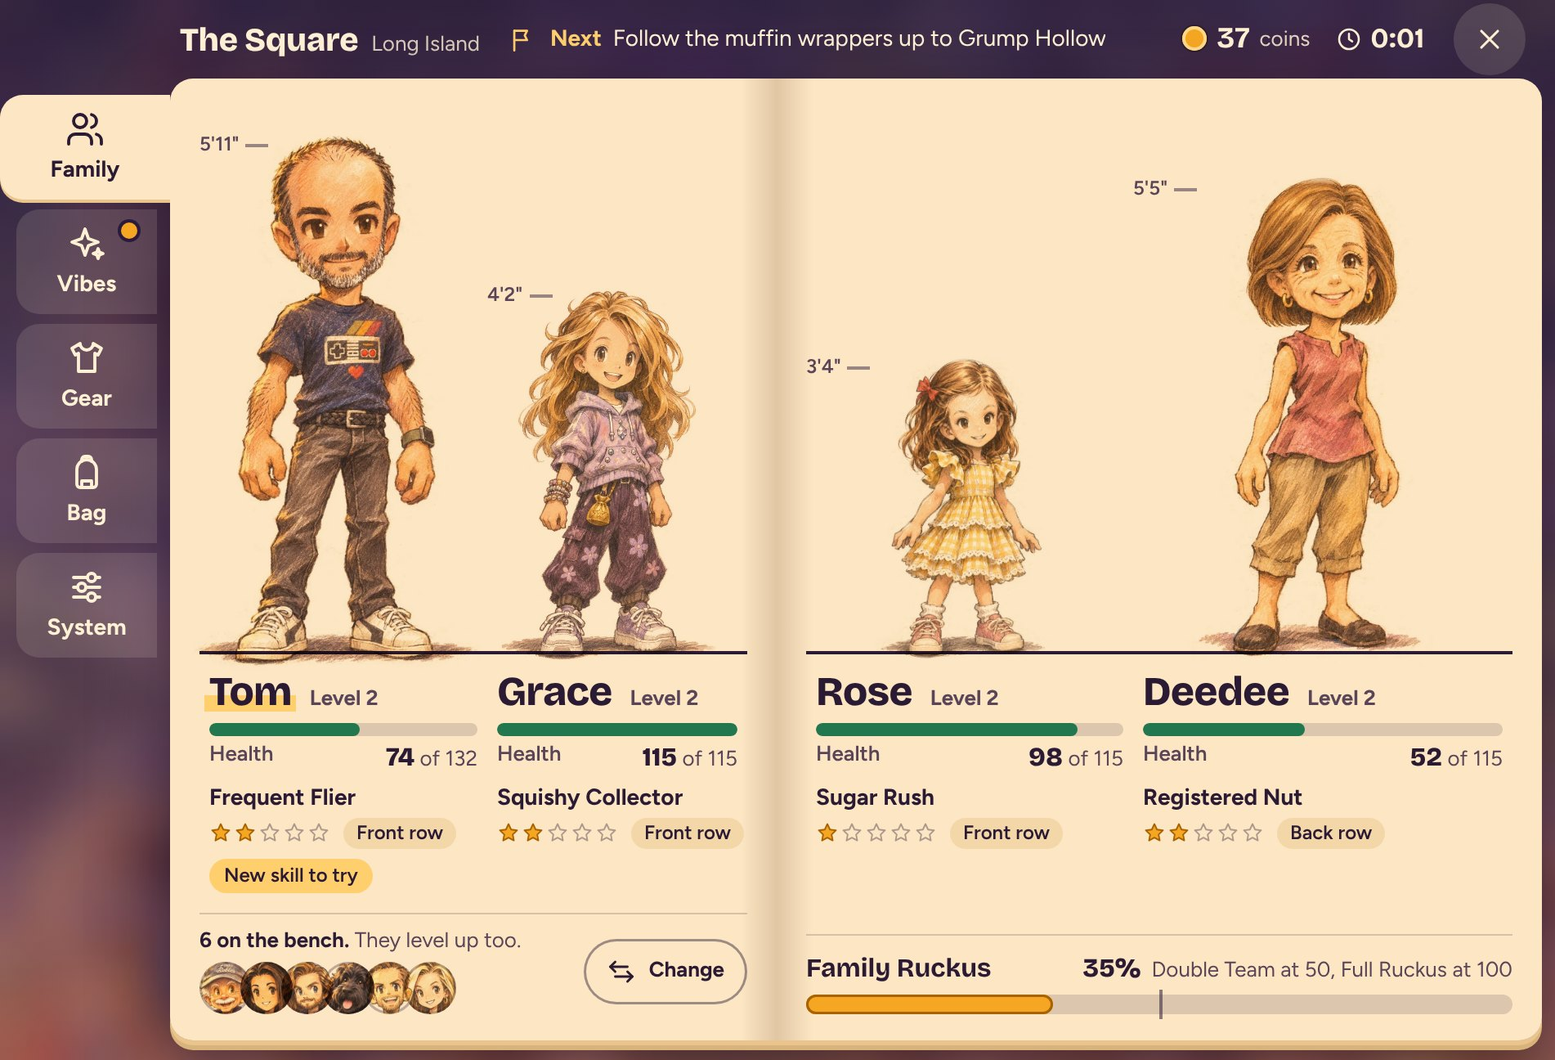
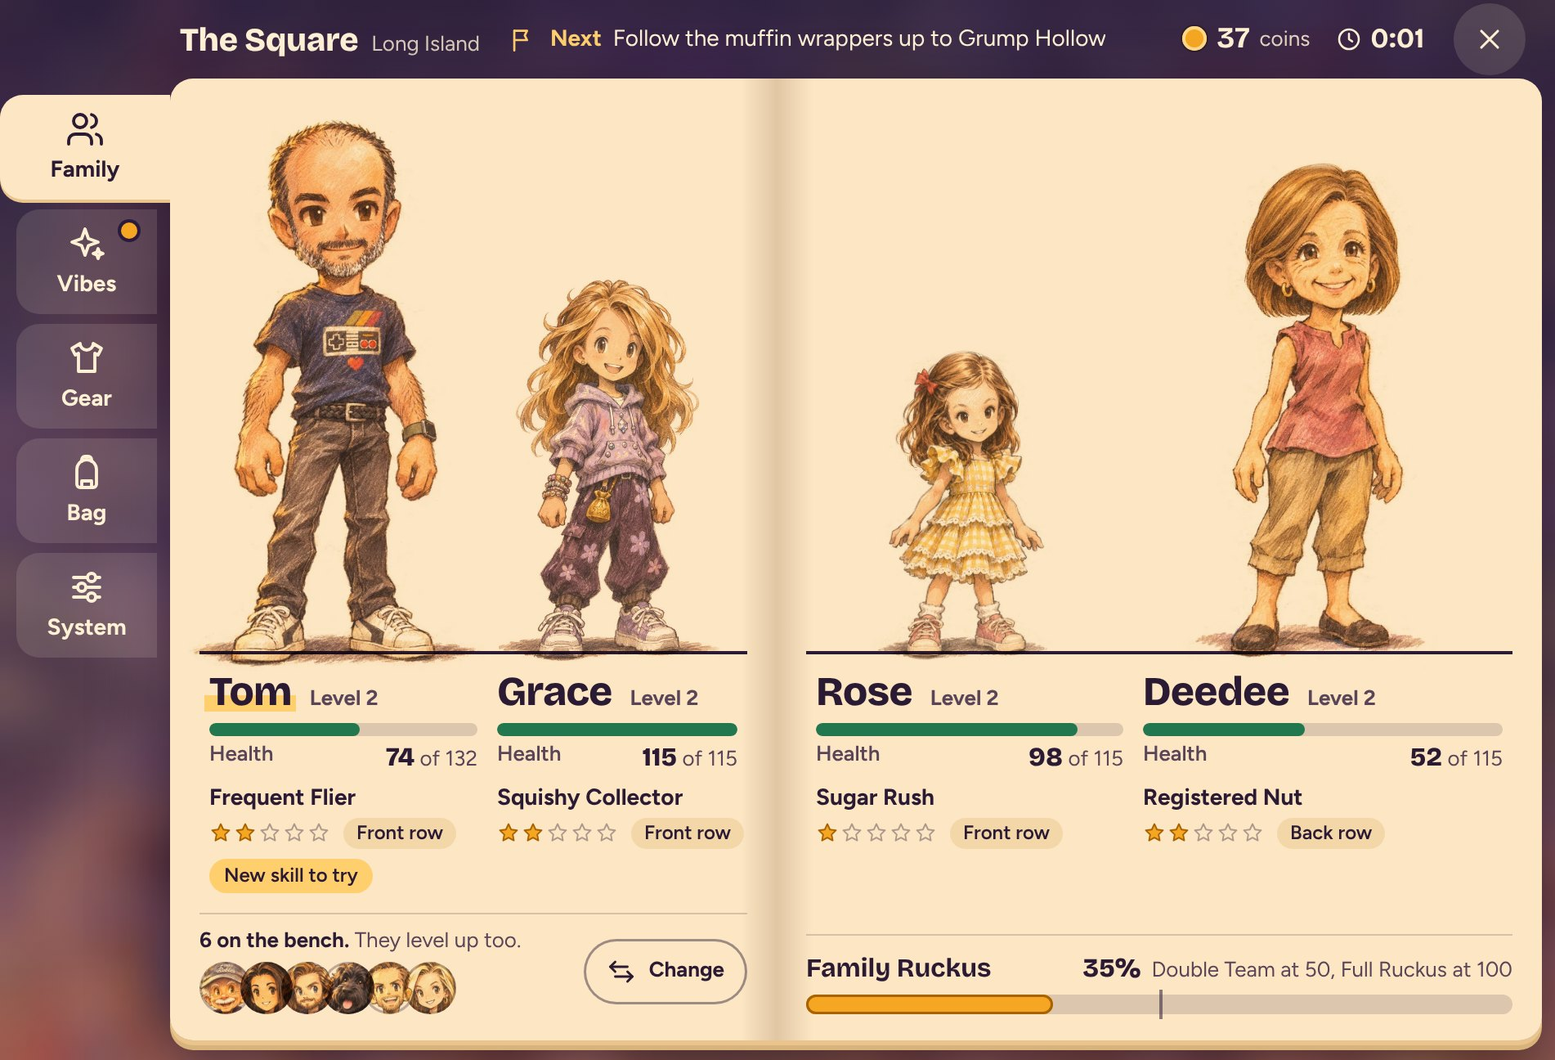
board-menuux4: the new main menu is approved; its four build cards are on the board
Card t-menuux-decide. Height labels removed from the line-up drawings. Cards c-menu1 to c-menu4,
t-menu1look, t-menu4play, c-b3gear. Nothing in the game changed.

Claude-Session: https://claude.ai/code/session_01RXeukG5qjtauKh9omacU4f

diff --git a/data/build-history.js b/data/build-history.js
@@ -1,5 +1,6 @@
 // Generated by tools/build_history.py. Do not edit by hand. Newest first.
 const BUILD_HISTORY=[
+{"tag":"board-menuux4","at":"2026-11-21T18:24:11-08:00","what":"The new main menu is approved; its four build cards are on the board","card":"c-menuux-cards","theme":"Game Shell","kind":"house"},
 {"tag":"takes-2026-11-22","at":"2026-11-22T02:21:49+00:00","what":"1 of Tom's new voice takes is in the game (Grace's I've been nine for SIX hours)","card":"c-takes-e45d5a","theme":"Voice Clips"},
 {"tag":"board-menuux3","at":"2026-11-21T18:19:47-08:00","what":"The menu proposal now covers the full v11 battle design, not only what is built","card":"b-board-menuux3","theme":"Battle System","kind":"house"},
 {"tag":"smokefix1","at":"2026-11-22T02:18:36+00:00","what":"The smoke test passes again; two tests listed for the night run, three board checks no longer read today's board","card":"c-smokefix1","theme":"Project Ops"},
@@ -491,6 +492,5 @@ const BUILD_HISTORY=[
 {"tag":"poseedit3","at":"2026-11-14T21:54:29-08:00","what":"Pose Editor: zoom slider, size sliders, pinching no longer scrambles the lines (the game itself is unchanged)","card":"b-poseedit3","theme":"Story and Dialogue"},
 {"tag":"poseedit2","at":"2026-11-14T21:36:09-08:00","what":"Pose Editor: feelings and talking poses added, and the page reworked into one simple flow (the game itself is unchanged)","card":"b-poseedit2","theme":"Characters"},
 {"tag":"poseedit1","at":"2026-11-14T20:53:19-08:00","what":"Pose Editor, phase 1: set the head, chin and feet lines on every walking pose and size it (the game itself is unchanged)","card":"b-poseedit1","theme":"Story and Dialogue"},
-{"tag":"scripted1","at":"2026-11-14T20:00:04-08:00","what":"Script Editor: edit every scene's words, play the edited scene, send the edits to Claude","card":"b-scripted1","theme":"Story and Dialogue"},
-{"tag":"ch8assets1","at":"2026-11-14T18:23:04-08:00","what":"Chapter 8 assets first: 26 Art Library entries and 178 voice lines queued (the game itself is unchanged)","card":"b-ch8assets1","theme":"Voice Clips"}
+{"tag":"scripted1","at":"2026-11-14T20:00:04-08:00","what":"Script Editor: edit every scene's words, play the edited scene, send the edits to Claude","card":"b-scripted1","theme":"Story and Dialogue"}
 ];

diff --git a/index.html b/index.html
@@ -2164,13 +2164,13 @@ html.landscape:not(.tablet):not(.duo) #battle.v2 .b2-x{font-size:17px}html.lands
 <script src="engine/emotions.js?v=qa-bug02"></script>
 <script src="engine/script-edits.js?v=scripted2"></script><!-- Script Editor overlay: Tom's line edits applied before a scene plays (script.html) --><!-- mood faces and poses in story dialogue (batch 0: chapter 1) -->
 <script src="engine/tapwalk.js?v=bossbig1"></script><!-- tap to walk -->
-<script src="data/build-history.js?v=takes-2026-11-22"></script><!-- build names and times (tools/build_history.py) -->
+<script src="data/build-history.js?v=board-menuux4"></script><!-- build names and times (tools/build_history.py) -->
 <script src="engine/build-history.js?v=buildpill1"></script><!-- build label on the welcome screen and menu, tap for the build history -->
 <script src="engine/amber-spots.js?v=reports-2026-11-22b"></script><!-- orange blocks left behind are solid and answer A (amberspot1) -->
 <script src="engine/block-break.js?v=ch7t1"></script><!-- breaking an orange block: coin, cracks, colour ring, shrink-back, encounters off (ch6build stage 2) -->
 <script src="engine/scene-props.js?v=qa-coh07"></script><!-- drawn stand-in props a scene can put on a map: the chart, Rose rolled up, the gold ball, bulbs (ch7build stage 2) -->
 <script src="engine/video-call.js?v=ch6s4"></script><!-- the video call at the end of chapter 6: Long Island seen from Tom's porch (ch6build stage 4) -->
-<script src="engine/main.js?v=takes-2026-11-22"></script>
+<script src="engine/main.js?v=board-menuux4"></script>
 <script src="engine/music.js"></script>
 <script src="data/songs.js"></script>
 <script src="engine/music-clips.js?v=adminvol1"></script>

diff --git a/engine/main.js b/engine/main.js
@@ -110,7 +110,7 @@ startSplash();
   const d=document.createElement('button');
   d.type='button'; d.id='build-stamp'; d.setAttribute('aria-label','Build history');
   // On an iPhone Duo the stamp also shows the page size and pose the game measured, so Tom can read them back (docs/DUO.md).
-  d.textContent='build takes-2026-11-22';
+  d.textContent='build board-menuux4';
   const build=d.textContent,stamp=()=>{ const w=typeof buildWhenLabel==='function'?buildWhenLabel(build.slice(6)).slice(2):'', duo=typeof duoMode!=='undefined'&&duoMode.device?window.innerWidth+'x'+window.innerHeight+(duoMode.open?' duo open':' duo folded'):'';
     d.textContent=build; for(const t of [w,duo]) if(t){ const s=document.createElement('small'); s.textContent=t; d.appendChild(s); } };
   window.BUILD_TAG=build.slice(6);

diff --git a/claude/menuux-mock/gen/bake_heroes.py b/claude/menuux-mock/gen/bake_heroes.py
@@ -1,0 +1,40 @@
+"""Reference for the menu's hero pictures (the mockups were made with it): a hero painting on its cream paper becomes a picture
+whose paper is pure white, so the menu can draw it on the page with mix-blend-mode: multiply and no cutout is needed.
+Usage (repo root): python3 claude/menuux-mock/gen/bake_heroes.py tom grace ...   writes claude/menuux-mock/img/<id>.webp
+The build (card c-menu1) turns this into tools/sprite-bake/bake_menu_heroes.py writing art/menu/<id>.webp."""
+import sys, os, re, glob
+import numpy as np
+from PIL import Image, ImageFilter
+ROOT = os.path.dirname(os.path.dirname(os.path.dirname(os.path.dirname(os.path.abspath(__file__)))))
+NEAR_LO, NEAR_HI = 0.82, 0.93   # after dividing by the paper: below LO is ink, above HI is paper, smooth in between
+INK = 0.62                      # darker than this is certainly a stroke
+REACH = (9, 26, 6)              # how far from a stroke the page still counts as "near the figure" (grow, blur, gain)
+FEATHER = 30                    # px at the frame's edge faded to white
+OUT_H = 820
+
+def src(pid):
+    vs = sorted(glob.glob(os.path.join(ROOT, 'art/raw/characters', pid + '-hero-v*.png')), key=lambda p: int(re.search(r'-v(\d+)\.png$', p).group(1)))
+    return vs[-1] if vs else os.path.join(ROOT, 'art/raw/characters', pid + '-hero-ref-v1.png')
+
+def bake(pid):
+    im = Image.open(src(pid)).convert('RGB'); a = np.asarray(im).astype(np.float32) / 255
+    # the paper as a smooth field: the brightest thing nearby, blurred
+    small = im.resize((128, 192), Image.BILINEAR).filter(ImageFilter.MaxFilter(31)).filter(ImageFilter.GaussianBlur(10)).resize(im.size, Image.BICUBIC)
+    d = np.clip(a / np.maximum(np.asarray(small).astype(np.float32) / 255, .01), 0, 1)
+    m = d.min(2)
+    t = np.clip((m - NEAR_LO) / (NEAR_HI - NEAR_LO), 0, 1); t = t * t * (3 - 2 * t)
+    ink = Image.fromarray(((m < INK) * 255).astype(np.uint8)).filter(ImageFilter.MaxFilter(REACH[0])).filter(ImageFilter.GaussianBlur(REACH[1]))
+    near = np.clip(np.asarray(ink).astype(np.float32) / 255 * REACH[2], 0, 1)
+    t = np.maximum(t, 1 - near)[..., None]          # far from any stroke the page is paper, whatever its grain says
+    d = d * (1 - t) + t
+    H, W = m.shape
+    ex = np.minimum(np.arange(W), np.arange(W)[::-1]) / FEATHER; ey = np.minimum(np.arange(H), np.arange(H)[::-1]) / FEATHER
+    e = np.clip(np.minimum(ex[None, :], ey[:, None]), 0, 1)[..., None]
+    d = d * e + (1 - e)
+    out = Image.fromarray((np.clip(d, 0, 1) * 255).astype(np.uint8))
+    out = out.resize((round(out.width * OUT_H / out.height), OUT_H), Image.LANCZOS)
+    out.save(os.path.join(ROOT, 'claude/menuux-mock/img', pid + '.webp'), quality=88, method=6)
+    return out.size
+
+if __name__ == '__main__':
+    for p in sys.argv[1:]: print(p, bake(p))

diff --git a/claude/menuux-mock/gen/boards.py b/claude/menuux-mock/gen/boards.py
@@ -52,11 +52,11 @@ def ruckus(pct=35, w='100%'):
 
 # ---------- Family ----------
 def family_duo():
-    ppi = 4.36; area = 334
+    ppi = 4.5; area = 334
     lw, rw = 371, 468
     lslots = [('tom', 176), ('grace', 159)]; rslots = [('rose', 200), ('deedee', 232)]
     def half(slots, sel=None, new=None, ticks='left'):
-        figs = ''.join(figure(p, ppi, w, area) for p, w in slots)
+        figs = ''.join(figure(p, ppi, w, area, tick=False) for p, w in slots)
         plates = ''.join(plate(p, w, sel == p, (new or {}).get(p)) for p, w in slots)
         return (f'<div style="display:flex;align-items:flex-end;border-bottom:2px solid {INK}">{figs}</div>'
                 f'<div style="display:flex;align-items:flex-start">{plates}</div>')
@@ -338,7 +338,7 @@ def family_land():
     ppi = 2.98; area = 222
     lw, rw = 382, 382
     def half(slots, sel=None):
-        figs = ''.join(figure(p, ppi, w, area, tick=True) for p, w in slots)
+        figs = ''.join(figure(p, ppi, w, area, tick=False) for p, w in slots)
         plates = ''.join(plate_s(p, w, sel == p) for p, w in slots)
         return f'<div style="display:flex;align-items:flex-end;border-bottom:2px solid {INK}">{figs}</div><div style="display:flex;align-items:flex-start">{plates}</div>'
     left = half([('tom', 180), ('grace', 174)], 'tom'); right = half([('rose', 174), ('deedee', 180)])

diff --git a/claude/menuux-plan.md b/claude/menuux-plan.md
@@ -1,6 +1,6 @@
 # Main menu redesign: the proposal (menuux-plan, 2026-11-21)
 
-Card c-menuux-plan. Status: PROPOSAL. Nothing in the game changed. The build starts only after Tom approves (card t-menuux-decide, or his word in the chat).
+Card c-menuux-plan. Status: APPROVED by Tom on 11-21 at 18:20 ("looks great now, just remove their heights and we can make the cards for this to be produced"). Build cards: c-menu1 to c-menu4, with Tom's two look cards t-menu1look and t-menu4play. Nothing in the game changed yet.
 
 Tom (11-21 17:28): "The main menu needs a complete overhaul - i originally wanted it like odl school JRPG style but im now finding it dated and hard to read. and im not sure its optimized for the new battle system. can you research best in class menus (eg, Person 3 Reload; just one example) that perfectly suits the needs of the game. it also should be strikingly beautiful and in theme with the design of the game.im open to anything, but id like to see a proposal before moving forward. once approved, id ask you to create the corresponding cards to kick off the work with the appropriate models."
 
@@ -46,8 +46,8 @@ One sentence: pausing turns the world to dusk and opens the sketchbook the famil
 |---|---|---|
 | Behind the menu | The paused game picture, softened and washed plum to rose (the title screen's sky). | The menu always shows where you are; costs nothing to make (one still of the canvas when the menu opens). |
 | The surface | Warm paper, the same colour the family's paintings are on (`#FCE6C3`, measured from the hero paintings: about `#FDE2B8`). Dark plum ink for text (`#2B1A33`). | The paintings stop looking like stickers. Dark text on a light page is the easiest thing to read on a phone. Contrast: ink on paper 13 to 1, the softer grey 7 to 1. |
-| The signature | The Family screen is a line-up of the hero paintings on one floor line at their REAL heights (from `data/heights.json`), with a pencil tick and the height at each head, like marks on a door frame. | Nobody else's game has this. The real heights are already a rule of this game. |
-| No cutouts | The paintings are not cut out. A bake divides each painting by its own paper so the paper becomes pure white, and the menu draws it with the "multiply" blend on the page. Hair wisps and pencil edges survive untouched. | Tom's rule about bad cutouts. Proved on seven paintings in the drawings. |
+| The signature | The Family screen is a line-up of the hero paintings on one floor line at their REAL relative heights (from `data/heights.json`). No height labels: Tom (11-21 18:20) had the pencil marks and numbers removed. | Nobody else's game has this. The real heights are already a rule of this game. |
+| No cutouts | The paintings are not cut out. A bake divides each painting by its own paper so the paper becomes pure white, and the menu draws it with the "multiply" blend on the page (the method, with its numbers, is `claude/menuux-mock/gen/bake_heroes.py`). Hair wisps and pencil edges survive untouched. | Tom's rule about bad cutouts. Proved on seven paintings in the drawings. |
 | The fold | On the Duo unfolded each screen is a two-page spread and the fold is the book's gutter (x 475 of 951): who or what on the left page, the detail on the right. No text crosses the fold. | The Duo is the main screen, and it is a book. |
 | Navigation | Five tabs with a picture AND a word: Family, Vibes, Gear, Bag, System. Index tabs down the left edge when the screen is wide (Duo, desktop, phone sideways), along the bottom edge when it is tall (phone upright, Duo folded). | Nine commands become five. The content gets the full width on a phone. Thumbs reach the tabs. |
 | What went where | Party becomes Family. Status folds into the header of Vibes and Gear (name, level, four numbers). Items becomes Bag. Load, Options and Quit become System (Save is there too). Stamps leaves (section 4). | Fewer places, nothing lost. |
@@ -119,10 +119,10 @@ The new menu is built beside the old one behind a switch (ADMIN > Menu: new or o
 
 | Card | What it builds | Model and effort (claude/handoff-rules.md) | Tom's part after |
 |---|---|---|---|
-| c-menu1 (tag menu1) | The look and the Family screen: fonts in the repo, colours and components as CSS, the paused-scene backdrop, the book and its tabs for wide and tall screens, the top bar, the hero bake (`tools/sprite-bake/bake_menu_heroes.py`, paper to white, for all ten family members, Nara included), the line-up at real heights, the bench with Change (swap a bench member in, with the story's locks said in words), keys, gamepad and touch. A head row of the line-up goes to Tom. | Sonnet 5.5 (row C: a build whose code is not written; the look is fully specified by `claude/menuux-mock/gen/kit.py`). Effort high (a new screen system worked out in one session). | One look on the real Duo and phone, about 3 minutes: does it feel right in the hand. This is the only taste check before the rest is built. |
-| c-menu2 (tag menu2) | Vibes and Gear: the shared header and switcher with the bench button, the three Vibe chips and the locked Freelancer chip, the Vibe pages on the real loadout functions (`b3SetMain`, `b3SetPocket`, `b3vRow`, the Quirk chooser, the late joiner's pool), the overflow line, the skill row, Gear with live changes through the gear mapping table, Best gear. Reads `claude/battleux-plan.md` first if it exists, so the skill row and the flavor icons are the same in the menu and in a fight. | Sonnet 5.5 (row C). Effort high. | None (tests and frames; folded into the final look). |
-| c-menu3 (tag menu3) | Bag and System: the list, the detail, Use it on, the phone sheet; saves, options, build label, quit; Rose Mode; Less motion. | Sonnet 5.5 (row B: the patterns exist after menu1 and menu2). Effort medium. | None. |
-| c-menu4 (tag menu4) | Switch the new menu on for everyone and purge the old one: old render functions and CSS in `engine/menu.js`, the Vibes overlay's own screen in `engine/b3-menu.js` (its save code stays), the admin switch, tests. | Sonnet 5.5 (row B: the purge rule and tests are written). Effort medium. Can run on the night shift. | Play the whole menu once on the phone, about 10 minutes. |
+| c-menu1 (tag menu1) | The look and the Family screen: fonts in the repo, colours and components as CSS, the paused-scene backdrop, the book and its tabs for wide and tall screens, the top bar, the hero bake (`tools/sprite-bake/bake_menu_heroes.py` from `claude/menuux-mock/gen/bake_heroes.py`, for every family member with a hero painting), the line-up at real heights with no labels, the bench with Change, keys, gamepad and touch. A head row of the line-up goes on Tom's card. | Sonnet 5.5 (row C: a build whose code is not written; the look is fully specified by `claude/menuux-mock/gen/kit.py`). Effort high (a new screen system worked out in one session). Tom starts it (Copy prompt). | t-menu1look: one look on the real Duo and phone, about 3 minutes. It does not hold up menu2. |
+| c-menu2 (tag menu2) | Vibes and Gear: the shared header and switcher with the bench button, the three Vibe chips and the locked Freelancer chip, the Vibe pages on the real loadout functions (`b3SetMain`, `b3SetPocket`, `b3vRow`, the Quirk chooser, the late joiner's pool), the overflow line, the skill row, Gear with live changes through the gear mapping table, Best gear. Uses the flavor symbols and the DETAILS setting that battleux1 built. | Sonnet 5.5 (row B: the page system and components exist after menu1, the rules functions exist, the plan and the generator say what goes where). Effort medium. Starts by itself. | None. |
+| c-menu3 (tag menu3) | Bag and System: the list, the detail, Use it on, the phone sheet; saves, options, build label, quit; Rose Mode; Less motion. | Sonnet 5.5 (row B). Effort medium. Starts by itself. | None. |
+| c-menu4 (tag menu4) | Switch the new menu on for everyone and purge the old one: old render functions and CSS in `engine/menu.js`, the Vibes overlay's own screen in `engine/b3-menu.js` (its save code stays), the admin switch, tests. | Sonnet 5.5 (row B: the purge rule and tests are written). Effort medium. Starts by itself. | t-menu4play: play the whole menu once on the phone, about 10 minutes. |
 
 Not in this proposal (each would be its own card, after the menu is approved in the hand): the typefaces and accent carried into the battle panels (table in section 4), the shop (it shares the menu's code and look, so it is the natural next one), the title menu, the dialogue box, the save pop-up on the map. The battle screen has its own proposal (c-battleux-plan); the two should agree on colours, type, the skill row and the flavor icons.
 

diff --git a/claude/INDEX.md b/claude/INDEX.md
@@ -295,6 +295,7 @@ Written by tools/claude_index.py; do not edit by hand. This folder replaces the 
 |---|---|---|
 | menuux-mock/fonts/bricolage.woff2 | wOF2��$c��*��2�R?HVAR� | 2026-11-21 |
 | menuux-mock/fonts/figtree.woff2 | wOF2N���NJ�4�F�8?HVAR�d`?STAT�'*�/j | 2026-11-21 |
+| menuux-mock/gen/bake_heroes.py | """Reference for the menu's hero pictures (the mockups were made with it): a hero painting on its cream paper  |  |
 | menuux-mock/gen/boards.py | from kit import * | 2026-11-21 |
 | menuux-mock/gen/export_canvas.py | Writes the Design canvas files (project/*.dc.html and project/canvas.json) from the same builders as the test  | 2026-11-21 |
 | menuux-mock/gen/kit.py | Golden Hour menu mockups: shared tokens and components. Every element carries inline styles (the Design canvas | 2026-11-21 |
@@ -318,9 +319,9 @@ Written by tools/claude_index.py; do not edit by hand. This folder replaces the 
 | menuux-mock/img/item-shirt.webp | RIFF�WEBPVP8X | 2026-11-21 |
 | menuux-mock/img/item-sunhat.webp | RIFFH&WEBPVP8X | 2026-11-21 |
 | menuux-mock/img/item-sweater.webp | RIFF"1WEBPVP8X | 2026-11-21 |
-| menuux-mock/img/justin-head.webp | RIFFh#WEBPVP8 \#�c�*��>A�C���=FD(�gr#����yW�O}}��gA=�����x?�z����k�#���Ǩ�:?D?�� :��/��Z�����l�_ |  |
-| menuux-mock/img/nara-head.webp | RIFF�#WEBPVP8 �#�e�*��>A�C���;��(�g7"������9o����K�^���~�������\:dy��������������@9�V����-�L |  |
-| menuux-mock/img/olivia-head.webp | RIFF")WEBPVP8 )Pi�*��>=�C�!!�60 ĳd����ȹ_���d��^��m�o@����z�_�E�?�ǜ���T_�=@?���>�]��n�������� |  |
+| menuux-mock/img/justin-head.webp | RIFFh#WEBPVP8 \#�c�*��>A�C���=FD(�gr#����yW�O}}��gA=�����x?�z����k�#���Ǩ�:?D?�� :��/��Z�����l�_ | 2026-11-21 |
+| menuux-mock/img/nara-head.webp | RIFF�#WEBPVP8 �#�e�*��>A�C���;��(�g7"������9o����K�^���~�������\:dy��������������@9�V����-�L | 2026-11-21 |
+| menuux-mock/img/olivia-head.webp | RIFF")WEBPVP8 )Pi�*��>=�C�!!�60 ĳd����ȹ_���d��^��m�o@����z�_�E�?�ǜ���T_�=@?���>�]��n�������� | 2026-11-21 |
 | menuux-mock/img/rose-head.webp | RIFF�'WEBPVP8 �'�j�*��>A�C����6�(�P����+鿧�r�n����\y>{w/C�=Ay�������{�s�/S��������_<P���W;�� | 2026-11-21 |
 | menuux-mock/img/rose.webp | RIFFZUWEBPVP8 NU�0�*#4>=�C�!�<İ Ħ��+HG\ƴv_a�*���� | 2026-11-21 |
 | menuux-mock/img/tnb-head.webp | RIFF`)WEBPVP8 T)0n�*��>=�C�!�/� Ĵd��*?/�1�=<���n����'΢�������?���?׺y���q�����/D.�O��}-:�4�� | 2026-11-21 |
@@ -344,7 +345,7 @@ Written by tools/claude_index.py; do not edit by hand. This folder replaces the 
 | menuux-mock/shots/system_duo.jpg | ����JFIF��C | 2026-11-21 |
 | menuux-mock/shots/system_phone.jpg | ����JFIF��C | 2026-11-21 |
 | menuux-mock/shots/vibes_duo.jpg | ����JFIF��C | 2026-11-21 |
-| menuux-mock/shots/vibes_late_duo.jpg | ����JFIF��C |  |
+| menuux-mock/shots/vibes_late_duo.jpg | ����JFIF��C | 2026-11-21 |
 | menuux-mock/shots/vibes_phone.jpg | ����JFIF��C | 2026-11-21 |
 
 ## moon club

diff --git a/docs/CHANGES.md b/docs/CHANGES.md
@@ -1,3 +1,7 @@
+## board-menuux4 (2026-11-22): the new main menu is approved; its four build cards are on the board
+
+Card t-menuux-decide. Tom (11-21 18:20): "looks great now, just remove their heights and we can make the cards for this to be produced". The height labels are removed from the Family line-up in the drawings and the plan (the family still stands at real relative heights). New cards: c-menu1 (the look and the Family screen, Sonnet 5.5 high, Tom starts it), c-menu2 (Vibes and Gear), c-menu3 (Bag and System) and c-menu4 (switch on, purge the old menu), each Sonnet 5.5 medium and starting by itself, with Tom's look cards t-menu1look and t-menu4play. The bake method for the hero pictures is saved as `claude/menuux-mock/gen/bake_heroes.py`. Also new: c-b3gear, because gear changes nothing in the new battle yet (no `b3-*` file reads equipment). Card c-menuux-cards is closed as not needed. Nothing in the game changed.
+
 ## board-menuux3 (2026-11-22): the menu proposal now covers the full v11 battle design, not only what is built
 
 Card t-menuux-decide. Tom (11-21 18:14): "did you design this for only what is implemented or to incorporate the full vision of the v11 battle system". Fact: the first drawings were made from what is in the game (two Vibes each, four people). Redrawn: Vibes has three Vibe chips with Main, Pocket and Not in use, a locked Freelancer chip (Casual Mode), two Quirk slots, and a new drawing "Vibes later in the game" with the Quirk chooser and the mastery overflow line; Family shows all six on the bench with Change; the face switcher has a +6 button for the bench. `claude/menuux-plan.md` section 4 has a table of every v11 item, whether it is built, and where it is in the proposal. Drawings and plan only; nothing in the game changed.
